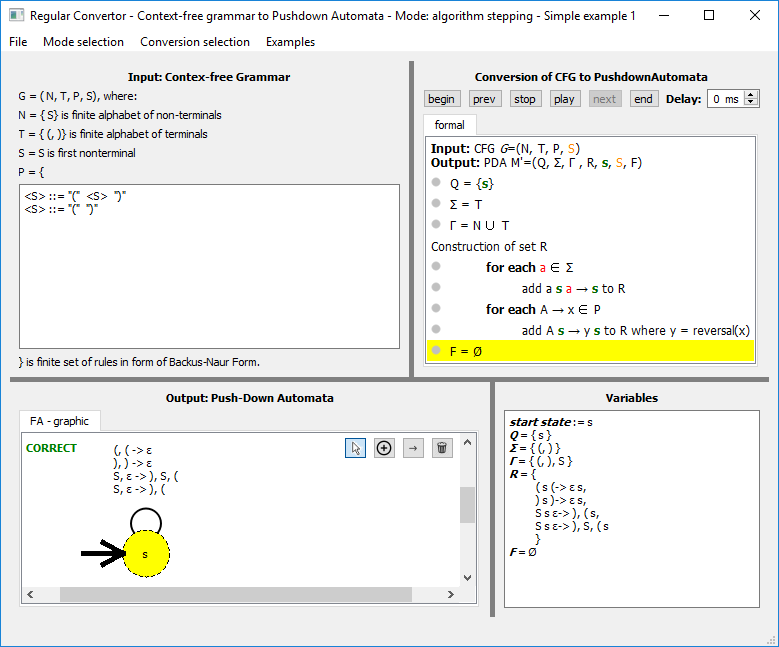
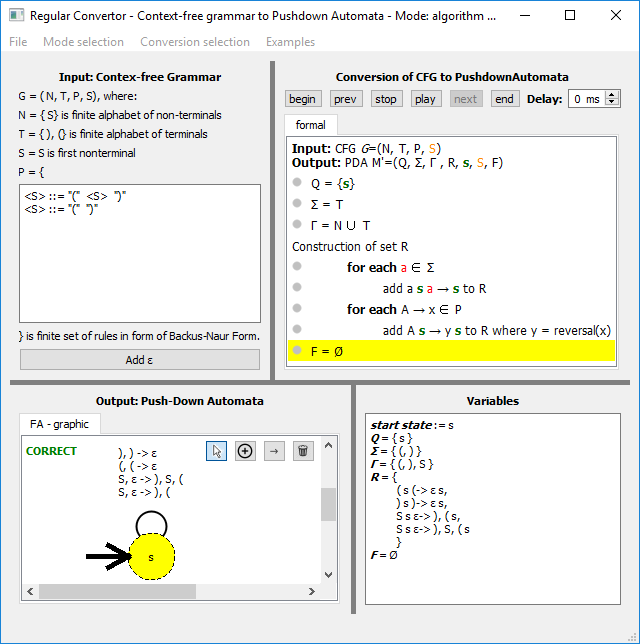
Updated screenshot and description of PDA widget.

diff --git a/diplomaThesis/tex/text.tex b/diplomaThesis/tex/text.tex
@@ -314,12 +314,13 @@ Při kontrole, jestli je uživatelský zásobníkový automat ekvivalentní se s
 
 \obr{Pohled na hlavní okno, ke je vybrán první příklad převodu bezkontextové gramatiky na zásobníkový automat na konci krokovacího módu }{obr:konverzeBezkontextovGramatikyNaZasobnikovyAutomat}{1.0}{obrazky/konverzeBezkontextovGramatikyNaZasobnikovyAutomat.png}
 
+\zadani
 
 \n{1}{Vstupní widget bezkontextové gramatiky}
 
-Do tohoto widgetu se vkládá popis bezkontextové gramatiky pomocí Backus-Naurovi formy popsané v teoretické části této práce. Tento widget je inteligentní a pozná, jestli je daná gramatika ve správném syntaktickém formátu. Pokud není, tak pozadí editačního kontrolního prvku, kde se daná gramatika vyplňuje zežloutne, čímž uživateli signalizuje, že udělal chybu v syntaxi. V opačném případě se nastaví pozadí na bílou barvu, gramatika automaticky rozparsuje a vyplní se tak počáteční non-terminál, abeceda terminálů a non-terminálů. Uživatel záměrně nemá možnost tyto 3 informace editovat, tak aby se předešlo zbytečným chybám. Za zmínku stojí, že pokud mají jednotlivá gramatická pravidla stejnou levou stranu, lze je zapsat na jeden řádek tak, že pravé strany jsou od sebe odděleny svislítkem. Pokud uživatel vybere čistou konverzi s prázdnou bezkontextovou gramatikou, widget je předvyplněn textem, který uživateli názorně ukáže příklad správné formy, jak zapsat bezkontextovou gramatiku. Je zde uveden proto, aby bylo pro nové uživatele co nejsnadnější používat tento program. 
+Do tohoto widgetu se vkládá popis bezkontextové gramatiky pomocí Backus-Naurovi formy popsané v teoretické části této práce. Tento widget je inteligentní a pozná, jestli je daná gramatika ve správném syntaktickém formátu. Pokud není, tak pozadí editačního kontrolního prvku, kde se daná gramatika vyplňuje zežloutne, čímž uživateli signalizuje, že udělal chybu v syntaxi. V opačném případě se nastaví pozadí na bílou barvu, gramatika automaticky rozparsuje a vyplní se tak počáteční non-terminál, abeceda terminálů a non-terminálů. Uživatel záměrně nemá možnost tyto 3 informace editovat, tak aby se předešlo zbytečným chybám. Za zmínku stojí, že pokud mají jednotlivá gramatická pravidla stejnou levou stranu, lze je zapsat na jeden řádek tak, že pravé strany jsou od sebe odděleny svislítkem. Pokud uživatel vybere čistou konverzi s prázdnou bezkontextovou gramatikou, widget je předvyplněn textem, který uživateli názorně ukáže příklad správné formy, jak zapsat bezkontextovou gramatiku. Je zde uveden proto, aby bylo pro nové uživatele co nejsnadnější používat tento program. Jeho text je uveden na obrázku (Obr. \ref{obr:predvypnenyTextBezkontextoveGramatiky}). 
 
-Jeho text je uveden na obrázku (Obr. \ref{obr:predvypnenyTextBezkontextoveGramatiky}).
+Jelikož součástí gramatiky může být i epsilon pravidlo a symbol $\epsilon$ není běžně na klávesnici, proto se na samém spodku widgetu nachází tlačítko, které jej vloží na aktuální pozici kurzoru.  
 
 \obr{Předvyplněný text bezkontextové gramatiky}{obr:predvypnenyTextBezkontextoveGramatiky}{0.7}{obrazky/predvypnenyTextBezkontextoveGramatiky.png}
 
